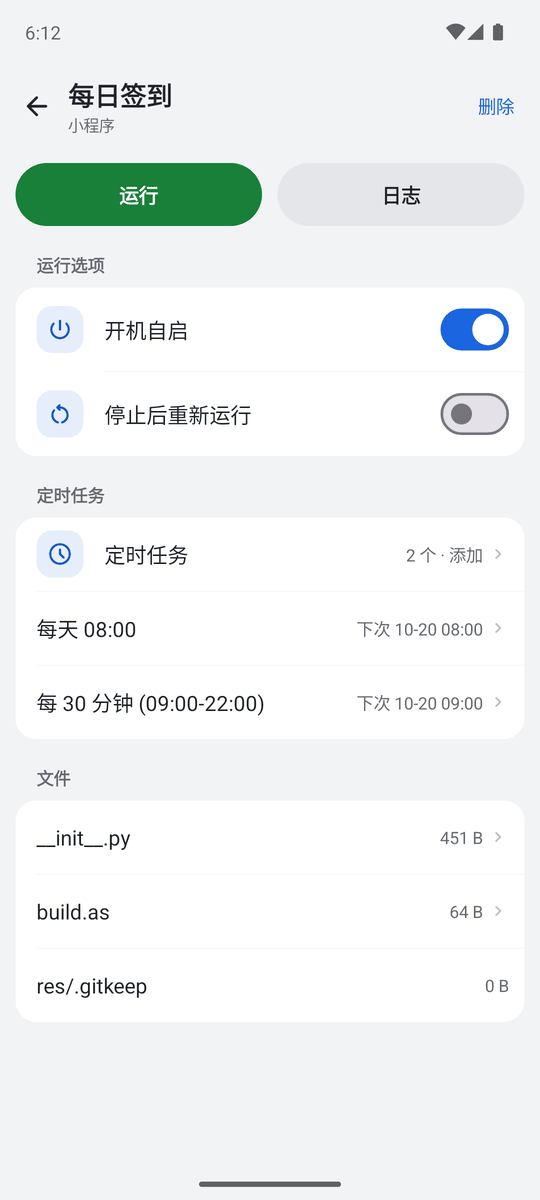
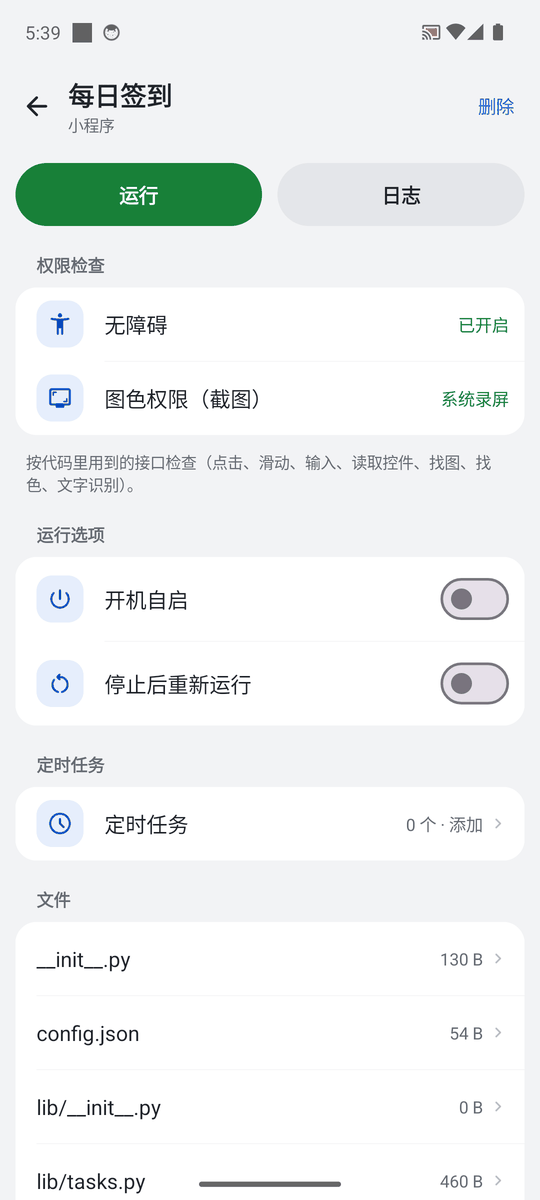
docs: describe the project permission check and refresh screenshots

diff --git a/README.md b/README.md
@@ -77,7 +77,7 @@ XScript 将设备端 Python 运行时、自动化 API、浏览器开发工具和
 
 | 首页 | 小程序列表 | 小程序详情 |
 | :---: | :---: | :---: |
-| <img src="docs/images/phone-home.png" width="220" alt="首页：当前小程序、开发者地址、配对码、AI 编程和云控连接状态、各项权限"> | <img src="docs/images/phone-projects.png" width="220" alt="小程序列表：四个示例小程序，右上角新建、导入"> | <img src="docs/images/phone-project.png" width="220" alt="小程序详情：运行、日志、开机自启、定时任务、文件"> |
+| <img src="docs/images/phone-home.png" width="220" alt="首页：当前小程序、开发者地址、配对码、AI 编程和云控连接状态、各项权限"> | <img src="docs/images/phone-projects.png" width="220" alt="小程序列表：四个示例小程序，右上角新建、导入"> | <img src="docs/images/phone-project.png" width="220" alt="小程序详情：运行、日志、权限检查、开机自启、定时任务、文件"> |
 | 开发者地址、配对码、权限状态，一键运行上次的小程序 | **新建** / **导入**，点进某个小程序 | **运行** / **日志**、开机自启、停止后重新运行、定时任务 |
 | **查看代码** | **运行日志** | **定时任务** |
 | <img src="docs/images/phone-editor.png" width="220" alt="手机上查看和修改 __init__.py"> | <img src="docs/images/phone-run-log.png" width="220" alt="运行日志：print 输出实时显示，可停止、清空"> | <img src="docs/images/phone-schedule.png" width="220" alt="添加定时任务：每天定时、每隔 N 分钟、只运行一次"> |

diff --git a/README.en.md b/README.en.md
@@ -79,7 +79,7 @@ If you would rather not build it yourself, use the published packages. All you n
 
 | Home | Mini-program list | Mini-program details |
 | :---: | :---: | :---: |
-| <img src="docs/images/phone-home.png" width="220" alt="Home: current mini-program, developer address, pairing code, AI coding and cloud connection status, permissions"> | <img src="docs/images/phone-projects.png" width="220" alt="Mini-program list: create, import"> | <img src="docs/images/phone-project.png" width="220" alt="Mini-program details: run, log, run on boot, scheduled tasks, files"> |
+| <img src="docs/images/phone-home.png" width="220" alt="Home: current mini-program, developer address, pairing code, AI coding and cloud connection status, permissions"> | <img src="docs/images/phone-projects.png" width="220" alt="Mini-program list: create, import"> | <img src="docs/images/phone-project.png" width="220" alt="Mini-program details: run, log, permission check, run on boot, scheduled tasks, files"> |
 | Developer address, pairing code, permission status, one-tap run of the last mini-program | **New** / **Import**, tap one to open it | **Run** / **Log**, run on boot, re-run after stop, scheduled tasks |
 | **View code** | **Run log** | **Scheduled tasks** |
 | <img src="docs/images/phone-editor.png" width="220" alt="Viewing and editing __init__.py on the phone"> | <img src="docs/images/phone-run-log.png" width="220" alt="Run log: print output shown live, can be stopped and cleared"> | <img src="docs/images/phone-schedule.png" width="220" alt="Adding a scheduled task: daily at a time, every N minutes, run once"> |

diff --git a/docs/使用手册.md b/docs/使用手册.md
@@ -95,6 +95,9 @@ python3 scripts/device_float_e2e.py emulator-5554 http://127.0.0.1:19860   # 134
 - 右上角 **新建**：新建一个空工程（名字必须是合法的 Python 标识符，可以用中文）。
 - 右上角 **导入**：从 zip 导入，或从 AScript（`/sdcard/airscript/model`，需要 root）导入。
 - 点某个小程序进入详情页，可以：运行 / 停止、看日志、打开 **开机自启** 和 **停止后重新运行**、添加 **定时任务**、查看和编辑文件、删除。
+- 详情页的 **权限检查** 按这个小程序代码里用到的接口，列出它需要的权限和现在的状态：点击 / 滑动 / 控件要 **无障碍**（有 Root 且运行模式允许时也可以），找图找色 / 文字识别要 **图色权限**（系统录屏、无障碍截图或 Root 截图任一可用即可），悬浮窗、监听通知、读写 `/sdcard` 各有对应权限。红字一行点一下直接去开启。缺权限时点 **运行** 会先列出缺哪几项、在哪个文件第几行用到，可以选 **去开启**、**仍然运行** 或取消。这是按代码文字判断的，动态拼出来的调用可能检查不到。
+
+![小程序详情页：权限检查缺两项时点运行，弹窗列出缺少的权限和用到它们的代码位置](images/phone-project-permissions.png)
 
 首页顶部的卡片显示上次运行的小程序，右侧按钮直接运行或停止。右上角 **日志** 查看所有运行输出。
 
